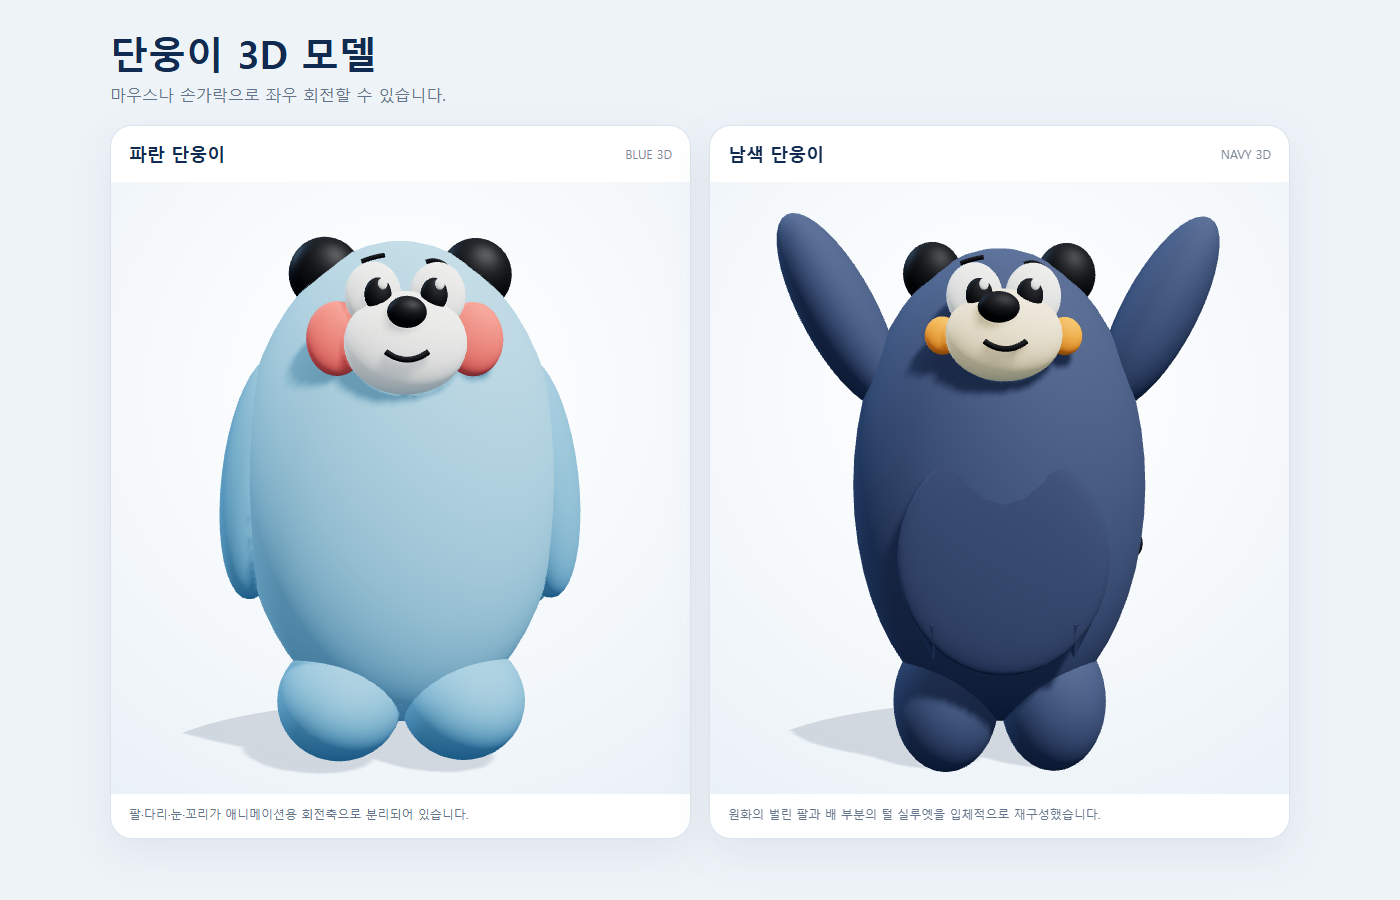
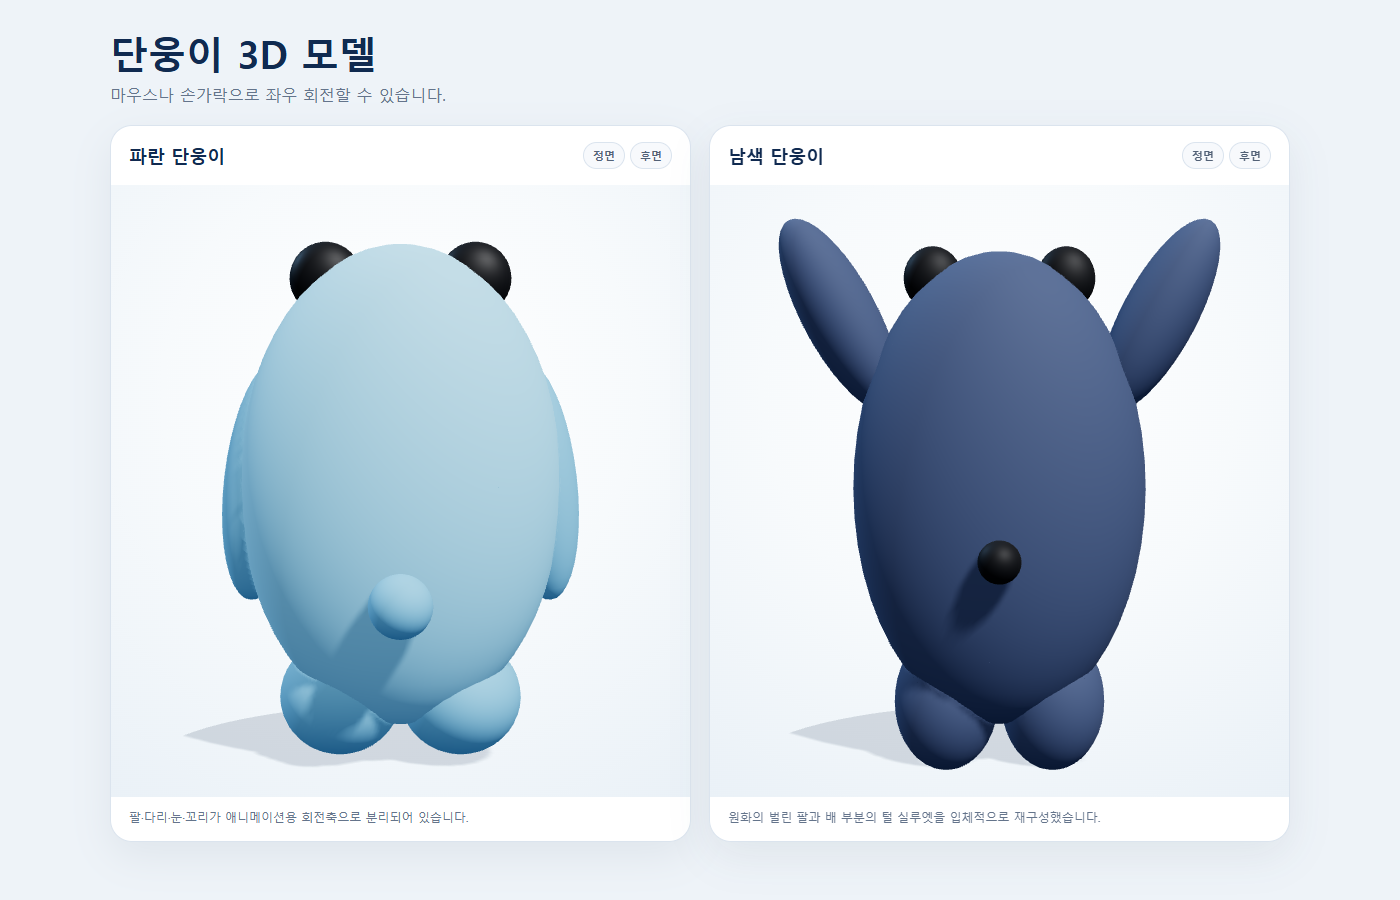
단웅이 꼬리 후면 중앙 정렬 보정

diff --git a/assets/models/danwoong-preview.html b/assets/models/danwoong-preview.html
@@ -14,7 +14,9 @@
     article { overflow: hidden; border: 1px solid #dbe4ee; border-radius: 22px; background: #fff; box-shadow: 0 14px 40px #23405f14; }
     .title { display: flex; align-items: center; justify-content: space-between; padding: 16px 18px; }
     .title strong { font-size: 18px; }
-    .title span { color: #7b8796; font-size: 12px; }
+    .view-buttons { display: flex; gap: 5px; }
+    .view-buttons button { padding: 5px 9px; border: 1px solid #dbe4ee; border-radius: 999px; background: #f7f9fc; color: #526176; font: inherit; font-size: 11px; font-weight: 700; cursor: pointer; }
+    .view-buttons button:hover { border-color: #9db5cc; background: #edf4fa; }
     canvas { display: block; width: 100%; height: min(68vh, 650px); touch-action: none; cursor: grab; background: radial-gradient(circle at 50% 34%, #fff 0, #f7fafc 48%, #eaf1f7 100%); }
     canvas:active { cursor: grabbing; }
     .note { padding: 12px 18px 16px; color: #64748b; font-size: 12px; }
@@ -24,12 +26,12 @@
 <body>
   <header><h1>단웅이 3D 모델</h1><p>마우스나 손가락으로 좌우 회전할 수 있습니다.</p></header>
   <main>
-    <article><div class="title"><strong>파란 단웅이</strong><span>BLUE 3D</span></div><canvas id="blue"></canvas><div class="note">팔·다리·눈·꼬리가 애니메이션용 회전축으로 분리되어 있습니다.</div></article>
-    <article><div class="title"><strong>남색 단웅이</strong><span>NAVY 3D</span></div><canvas id="navy"></canvas><div class="note">원화의 벌린 팔과 배 부분의 털 실루엣을 입체적으로 재구성했습니다.</div></article>
+    <article><div class="title"><strong>파란 단웅이</strong><div class="view-buttons"><button data-model="blue" data-view="front">정면</button><button data-model="blue" data-view="back">후면</button></div></div><canvas id="blue"></canvas><div class="note">팔·다리·눈·꼬리가 애니메이션용 회전축으로 분리되어 있습니다.</div></article>
+    <article><div class="title"><strong>남색 단웅이</strong><div class="view-buttons"><button data-model="navy" data-view="front">정면</button><button data-model="navy" data-view="back">후면</button></div></div><canvas id="navy"></canvas><div class="note">원화의 벌린 팔과 배 부분의 털 실루엣을 입체적으로 재구성했습니다.</div></article>
   </main>
   <script type="module">
     import * as THREE from "https://cdn.jsdelivr.net/npm/three@0.169.0/build/three.module.js";
-    import { createBlueDanwoong, createNavyDanwoong } from "../js/danwoong-models.js?v=2";
+    import { createBlueDanwoong, createNavyDanwoong } from "../js/danwoong-models.js?v=3";
 
     function mount(canvas, createModel) {
       const renderer = new THREE.WebGLRenderer({ canvas, antialias: true, alpha: true });
@@ -63,7 +65,8 @@
       scene.add(model);
       let dragging = false;
       let previousX = 0;
-      canvas.addEventListener("pointerdown", (event) => { dragging = true; previousX = event.clientX; canvas.setPointerCapture(event.pointerId); });
+      let autoRotate = true;
+      canvas.addEventListener("pointerdown", (event) => { dragging = true; autoRotate = false; previousX = event.clientX; canvas.setPointerCapture(event.pointerId); });
       canvas.addEventListener("pointermove", (event) => { if (!dragging) return; model.rotation.y += (event.clientX - previousX) * 0.012; previousX = event.clientX; });
       canvas.addEventListener("pointerup", () => { dragging = false; });
       canvas.addEventListener("pointercancel", () => { dragging = false; });
@@ -79,15 +82,32 @@
       }
       function frame(time) {
         resize();
-        if (!dragging) model.rotation.y = Math.sin(time * 0.00035) * 0.16;
+        if (!dragging && autoRotate) model.rotation.y += 0.003;
         renderer.render(scene, camera);
         requestAnimationFrame(frame);
       }
       requestAnimationFrame(frame);
+      return {
+        setView(rotation) {
+          autoRotate = false;
+          model.rotation.y = rotation;
+        },
+      };
     }
 
-    mount(document.querySelector("#blue"), createBlueDanwoong);
-    mount(document.querySelector("#navy"), createNavyDanwoong);
+    const controls = {
+      blue: mount(document.querySelector("#blue"), createBlueDanwoong),
+      navy: mount(document.querySelector("#navy"), createNavyDanwoong),
+    };
+    if (new URLSearchParams(location.search).get("view") === "back") {
+      controls.blue.setView(Math.PI);
+      controls.navy.setView(Math.PI);
+    }
+    document.querySelectorAll("[data-model][data-view]").forEach((button) => {
+      button.addEventListener("click", () => {
+        controls[button.dataset.model].setView(button.dataset.view === "back" ? Math.PI : 0);
+      });
+    });
   </script>
 </body>
 </html>

diff --git a/assets/js/danwoong-models.js b/assets/js/danwoong-models.js
@@ -122,7 +122,7 @@ export function createBlueDanwoong() {
   rightLeg.add(sphere(blueDark, "Leg_R", [0, -0.25, 0.15], [0.53, 0.50, 0.63], 40));
   root.add(rightLeg);
 
-  const tail = pivot("Tail_Pivot", [0, 1.35, -0.93]);
+  const tail = pivot("Tail_Pivot", [0, 1.35, -1.12]);
   tail.add(sphere(blueDark, "Tail", [0, 0, 0], [0.25, 0.25, 0.25], 28));
   root.add(tail);
 
@@ -174,7 +174,7 @@ export function createNavyDanwoong() {
     root.add(mesh(tuftGeometry, belly, `BellyTuft_${index + 1}`, [x, 0.93 + Math.abs(x) * 0.14, 0.79], [1, 1, 0.65], [0, 0, Math.PI]));
   });
 
-  const tail = pivot("Tail_Pivot", [0, 1.68, -0.86]);
+  const tail = pivot("Tail_Pivot", [0, 1.68, -1.02]);
   tail.add(sphere(black, "Tail", [0, 0, 0], [0.17, 0.17, 0.17], 24));
   root.add(tail);
 